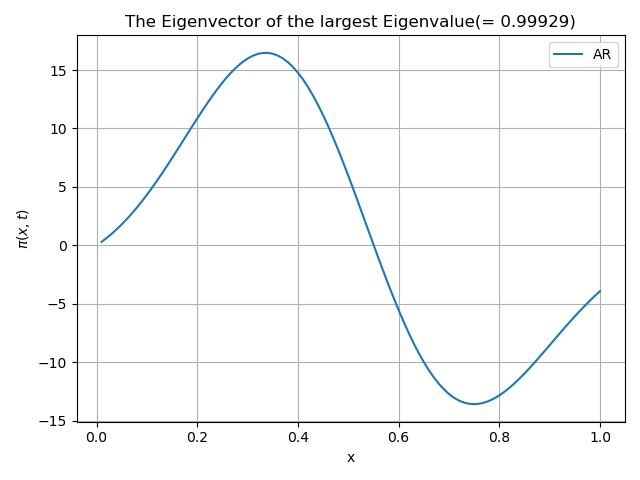
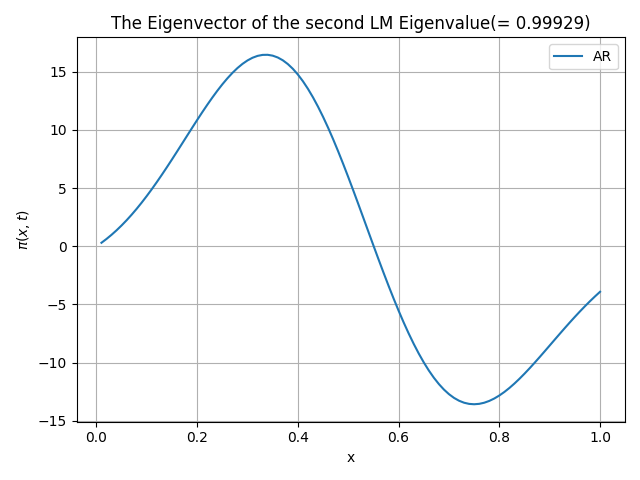
add the plot of eigenvectors respectively corresponding to the first and second largest magnitude (LM) eigenvalues of transfer matrix with new Criteria

diff --git a/code/transferMat_result_generator.py b/code/transferMat_result_generator.py
@@ -35,8 +35,8 @@ Tf = 50
 def beta_U(x):
     # result = 10*x**2-10*x  # convex potential
     # result = -10*x**2+10*x  # concave potential
-    # result = gaussian(x, A=-2, mu=L/4, sigma=0.1)+gaussian(x, A=-3, mu=0.8, sigma=0.2) # Gaussian potential
-    result = 0*x # diffusion only
+    result = gaussian(x, A=-2, mu=L/4, sigma=0.1)+gaussian(x, A=-3, mu=0.8, sigma=0.2) # Gaussian potential
+    # result = 0*x # diffusion only
     return result
 
 # ## =========first run with Metro=============
@@ -62,15 +62,15 @@ ar_trans = TransferMatrix_AbRe(hx, x_arr, beta_U, 1)
 # Define the folder path
 # folder_path = 'graphs/convex_potential/transferMat_Criteria'
 # folder_path = 'graphs/concave_potential/transferMat_Criteria'
-# folder_path = 'graphs/Gaussian_potential/transferMat_Criteria'
-folder_path = 'graphs/diffusion_only/transferMat_Criteria'
+folder_path = 'graphs/Gaussian_potential/transferMat_Criteria'
+# folder_path = 'graphs/diffusion_only/transferMat_Criteria'
 
 
 plt.plot(x_arr, rr_trans.steady_state, label="RR")
 # Plot formatting
 plt.xlabel('x')
 plt.ylabel('$ \pi(x,t) $')
-plt.title(f'The Eigenvector Corresponding to the largest Eigenvalue(= {rr_trans.eig6_w[0].real.round(3)})')
+plt.title(f'The Eigenvector of the first LM Eigenvalue(= {rr_trans.eig6_w[0].real.round(6)})')
 plt.legend()
 plt.grid(True)
 plt.tight_layout()
@@ -78,12 +78,23 @@ plt.tight_layout()
 plt.savefig(os.path.join(folder_path, 'transferMat_steady_rr.png'))  # Save as PNG file
 plt.show() ##########
 
+plt.plot(x_arr, 1.0/(hx*np.sum(rr_trans.eig6_v[:, 1]))*rr_trans.eig6_v[:, 1], label="RR")
+# Plot formatting
+plt.xlabel('x')
+plt.ylabel('$ \pi(x,t) $')
+plt.title(f'The Eigenvector of the second LM Eigenvalue(= {rr_trans.eig6_w[1].real.round(6)})')
+plt.legend()
+plt.grid(True)
+plt.tight_layout()
+# Save the figure
+plt.savefig(os.path.join(folder_path, 'transferMat_eigv2_rr.png'))  # Save as PNG file
+plt.show() ##########
 
 plt.plot(x_arr[1:-1], aa_trans.steady_state, label="AA")
 # Plot formatting
 plt.xlabel('x')
 plt.ylabel('$ \pi(x,t) $')
-plt.title(f'The Eigenvector of the only negative Eigenvalue(= {aa_trans.eig6_w[0].real.round(6)})')
+plt.title(f'The Eigenvector of the first LM Eigenvalue(= {aa_trans.eig6_w[0].real.round(6)})')
 plt.legend()
 plt.grid(True)
 plt.tight_layout()
@@ -96,7 +107,7 @@ plt.plot(x_arr[1:-1], 1.0/(hx*np.sum(aa_trans.eig6_v[:, 1]))*aa_trans.eig6_v[:, 
 # Plot formatting
 plt.xlabel('x')
 plt.ylabel('$ \pi(x,t) $')
-plt.title(f'The Eigenvector of the largest Eigenvalue(= {aa_trans.eig6_w[1].real.round(6)})')
+plt.title(f'The Eigenvector of the second LM Eigenvalue(= {aa_trans.eig6_w[1].real.round(6)})')
 plt.legend()
 plt.grid(True)
 plt.tight_layout()
@@ -109,7 +120,7 @@ plt.plot(x_arr[:-1], ra_trans.steady_state, label="RA")
 # Plot formatting
 plt.xlabel('x')
 plt.ylabel('$ \pi(x,t) $')
-plt.title(f'The Eigenvector of the only negative Eigenvalue(= {ra_trans.eig6_w[0].real.round(6)})')
+plt.title(f'The Eigenvector of the first LM Eigenvalue(= {ra_trans.eig6_w[0].real.round(6)})')
 plt.legend()
 plt.grid(True)
 plt.tight_layout()
@@ -122,7 +133,7 @@ plt.plot(x_arr[:-1], 1.0/(hx*np.sum(ra_trans.eig6_v[:, 1]))*ra_trans.eig6_v[:, 1
 # Plot formatting
 plt.xlabel('x')
 plt.ylabel('$ \pi(x,t) $')
-plt.title(f'The Eigenvector of the largest Eigenvalue(= {ra_trans.eig6_w[1].real.round(6)})')
+plt.title(f'The Eigenvector of the second LM Eigenvalue(= {ra_trans.eig6_w[1].real.round(6)})')
 plt.legend()
 plt.grid(True)
 plt.tight_layout()
@@ -135,7 +146,7 @@ plt.plot(x_arr[1:], ar_trans.steady_state, label="AR")
 # Plot formatting
 plt.xlabel('x')
 plt.ylabel('$ \pi(x,t) $')
-plt.title(f'The Eigenvector of the only negative Eigenvalue(= {ar_trans.eig6_w[0].real.round(6)})')
+plt.title(f'The Eigenvector of the first LM Eigenvalue(= {ar_trans.eig6_w[0].real.round(6)})')
 plt.legend()
 plt.grid(True)
 plt.tight_layout()
@@ -148,7 +159,7 @@ plt.plot(x_arr[1:], 1.0/(hx*np.sum(ar_trans.eig6_v[:, 1]))*ar_trans.eig6_v[:, 1]
 # Plot formatting
 plt.xlabel('x')
 plt.ylabel('$ \pi(x,t) $')
-plt.title(f'The Eigenvector of the largest Eigenvalue(= {ar_trans.eig6_w[1].real.round(6)})')
+plt.title(f'The Eigenvector of the second LM Eigenvalue(= {ar_trans.eig6_w[1].real.round(6)})')
 plt.legend()
 plt.grid(True)
 plt.tight_layout()
@@ -187,6 +198,6 @@ plt.grid(True)
 plt.tight_layout()
 
 # Save the figure
-plt.savefig(os.path.join(folder_path, 'transferMat_boudaries.png'))  # Save as PNG file
+#plt.savefig(os.path.join(folder_path, 'transferMat_boudaries.png'))  # Save as PNG file
 
 plt.show()

diff --git a/code/transfer_matrix_reptile.py b/code/transfer_matrix_reptile.py
@@ -52,7 +52,7 @@ class TransferMatrix_ReRe:
         self.beta_U = beta_U
         self.criteria = criteria
         self.trans_mat = self.assemble_matrix()
-        self.eig6_w, self.eig6_v = eigs(self.trans_mat)
+        self.eig6_w, self.eig6_v = eigs(self.trans_mat, k=6, which='LM')
         self.steady_state = 1.0/(hx*np.sum(self.eig6_v[:, 0]))*self.eig6_v[:, 0]
         self.relax_timescale = -1.0/np.log(self.eig6_w[1])
 
